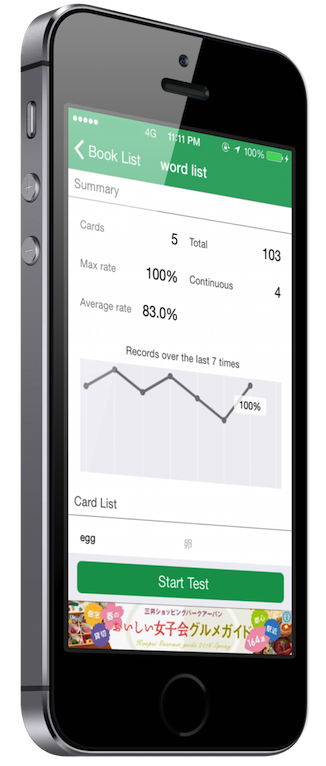
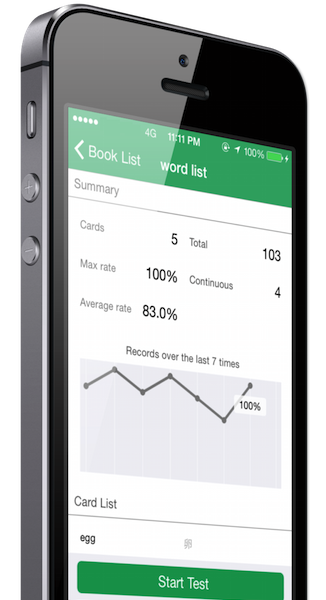
responsive design

diff --git a/xcard/assets/css/main.css b/xcard/assets/css/main.css
@@ -1,5 +1,5 @@
-@import url(font-awesome.min.css);
-@import url("https://fonts.googleapis.com/css?family=Raleway:200,700|Source+Sans+Pro:300,600,300italic,600italic");
+/* @import url(font-awesome.min.css); */
+/* @import url("https://fonts.googleapis.com/css?family=Raleway:200,700|Source+Sans+Pro:300,600,300italic,600italic"); */
 
 /*
 	Solid State by HTML5 UP
@@ -2002,7 +2002,8 @@
 
 	select option {
 		color: #ffffff;
-		background: #2e3141;
+		/* background: #2e3141; */
+		background: #0f9d58;
 	}
 
 	input[type="text"],
@@ -2077,7 +2078,8 @@
 			background: #ffffff;
 			border-color: #ffffff;
 			content: '\f00c';
-			color: #2e3141;
+			/* color: #2e3141; */
+			color: #0f9d58;
 		}
 
 		input[type="checkbox"]:focus + label:before,
@@ -3120,9 +3122,11 @@
 		@media screen and (max-width: 1280px) {
 
 			#banner {
-				padding: 7em 0 8.25em 0 ;
-				background-color: #2e3141;
-				background-image: linear-gradient(to top, rgba(46, 49, 65, 0.8), rgba(46, 49, 65, 0.8)), url("../../images/bg.jpg");
+				/* padding: 7em 0 8.25em 0 ; */
+				padding: 7em 0 12.25em 0 ;
+				/* background-color: #2e3141; */
+				background-color: #0f9d58;
+				/* background-image: linear-gradient(to top, rgba(46, 49, 65, 0.8), rgba(46, 49, 65, 0.8)), url("../../images/bg.jpg"); */
 				background-size: auto, cover;
 				background-position: center, center;
 				margin-bottom: -6.5em;
@@ -3231,8 +3235,9 @@
 
 		#wrapper > header {
 			padding: 9em 0 6.25em 0 ;
-			background-color: #2e3141;
-			background-image: linear-gradient(to top, rgba(46, 49, 65, 0.8), rgba(46, 49, 65, 0.8)), url("../../images/bg.jpg");
+			/* background-color: #2e3141; */
+			background-color: #0f9d58;
+			/* background-image: linear-gradient(to top, rgba(46, 49, 65, 0.8), rgba(46, 49, 65, 0.8)), url("../../images/bg.jpg"); */
 			background-size: auto, cover;
 			background-position: center, 0% 30%;
 			margin-bottom: -6.5em;
@@ -3274,7 +3279,8 @@
 	}
 
 	.wrapper {
-		background-color: #2e3141;
+		/* background-color: #2e3141; */
+		background-color: #0f9d58;
 		margin: 6.5em 0;
 		position: relative;
 	}
@@ -3629,8 +3635,9 @@
 	@media screen and (max-width: 1280px) {
 
 		#footer {
-			background-color: #2e3141;
-			background-image: linear-gradient(to top, rgba(46, 49, 65, 0.8), rgba(46, 49, 65, 0.8)), url("../../images/bg.jpg");
+			/* background-color: #2e3141; */
+			background-color: #0f9d58;
+			/* background-image: linear-gradient(to top, rgba(46, 49, 65, 0.8), rgba(46, 49, 65, 0.8)), url("../../images/bg.jpg"); */
 			background-size: auto, cover;
 			background-position: center, center;
 			margin-top: -6.5em;

diff --git a/xcard/assets/css/custom.css b/xcard/assets/css/custom.css
@@ -1,6 +1,6 @@
 .iphone {
     position: absolute;
-    height: 766px;
+    height: 600px;
     width: 326px;
     left: 160px;
     top: 100px;
@@ -71,7 +71,11 @@
 
 .ending {
     text-align: center;
-    font-family: Meiryo;
+    border-bottom: none;
+}
+
+.ending img {
+    width: 120px;
 }
 
 .wrapper.spotlight .image {
@@ -81,3 +85,83 @@
     .wrapper.spotlight .image img {
         border-radius: 5px;
     }
+
+.logo-link {
+    clear: both;
+}
+
+#banner .inner .logo-link img {
+    margin-right: 0;
+    margin-top: 0;
+    width: 240px;
+}
+
+.header-logo img {
+    margin-top: 21px;
+    width: 60px;
+}
+
+.languages {
+    float: right;
+    color: #4f4f4f;
+}
+
+.languages a {
+    color: #0f9d58;
+    border-bottom: none;
+}
+
+@media screen and (max-width: 1280px) {
+    .iphone {
+        left: 80px;
+    }
+}
+
+@media screen and (max-width: 1080px) {
+
+    #banner .inner .logo-link img {
+        width: 120px;
+        margin: 0 auto;
+    }
+
+    #banner p {
+        text-align: center;
+    }
+
+    .iphone {
+        display: none;
+    }
+
+    #banner .inner a.btn-download {
+        margin: 0 auto;
+        float: none;
+        width: 150px;
+        height: 50px;
+    }
+
+    #banner .inner a.btn-download img {
+        padding-top: 9px;
+        width: 120px;
+        /*height: 36px;*/
+    }
+
+    .ending img {
+        display: block;
+        width: 60px;
+        margin: 0 auto;
+    }
+
+    .header-logo img {
+        margin-top: 17px;
+        width: 40px;
+    }
+
+    #banner .inner .sns-button {
+        width: 297px;
+        height: 36px;
+        float: none;
+        margin: 8px auto 0;
+        display: block;
+    }
+
+}

diff --git a/xcard/index.html b/xcard/index.html
@@ -29,7 +29,11 @@
 
 				<!-- Header -->
 					<header id="header" class="alt">
-						<h1><a href="index.html">Xcard</a></h1>
+						<!-- <h1><a href="#">Xcard</a></h1> -->
+						<h1>
+							<a href="index.html" class="header-logo"><img src="images/logo-small.png" alt="Xcard"></a>
+							<span class="languages">JP / <a href="en/">EN</a></span>
+						</h1>
 						<!-- <nav>
 							<a href="#menu">Menu</a>
 						</nav> -->
@@ -55,7 +59,8 @@
 						<div class="iphone"></div>
 						<div class="inner">
 							<!-- <div class="logo"><span class="icon fa-diamond"></span></div> -->
-							<h2>Xcard</h2>
+							<a href="index.html" class="logo-link"><img src="images/logo.png"></a>
+							<h2></h2>
 							<p>Xcardは主に外国語学習者に向けた<br>オリジナルの単語帳を効率よく作成して学習できる<br>これまでにない単語帳アプリです</p>
 							<a href="#" target="_blank" class="btn-download">
 								<img src="images/app_store.svg" alt="Download on AppStore">
@@ -186,7 +191,7 @@
 								<!-- <li class="fa-facebook"><a href="#">facebook.com/untitled-tld</a></li> -->
 								<!-- <li class="fa-instagram"><a href="#">instagram.com/untitled-tld</a></li> -->
 							<!-- </ul> -->
-							<h2 class="ending">Xcard</h2>
+							<a href="index.html" class="ending"><img src="images/logo-medium.png"></a>
 							<ul class="copyright">
 								<li>&copy; <a href="http://saitoxu.github.io">Yosuke Saito</a> All rights reserved.</li><!-- <li>Design: <a href="http://html5up.net">HTML5 UP</a></li> -->
 							</ul>
